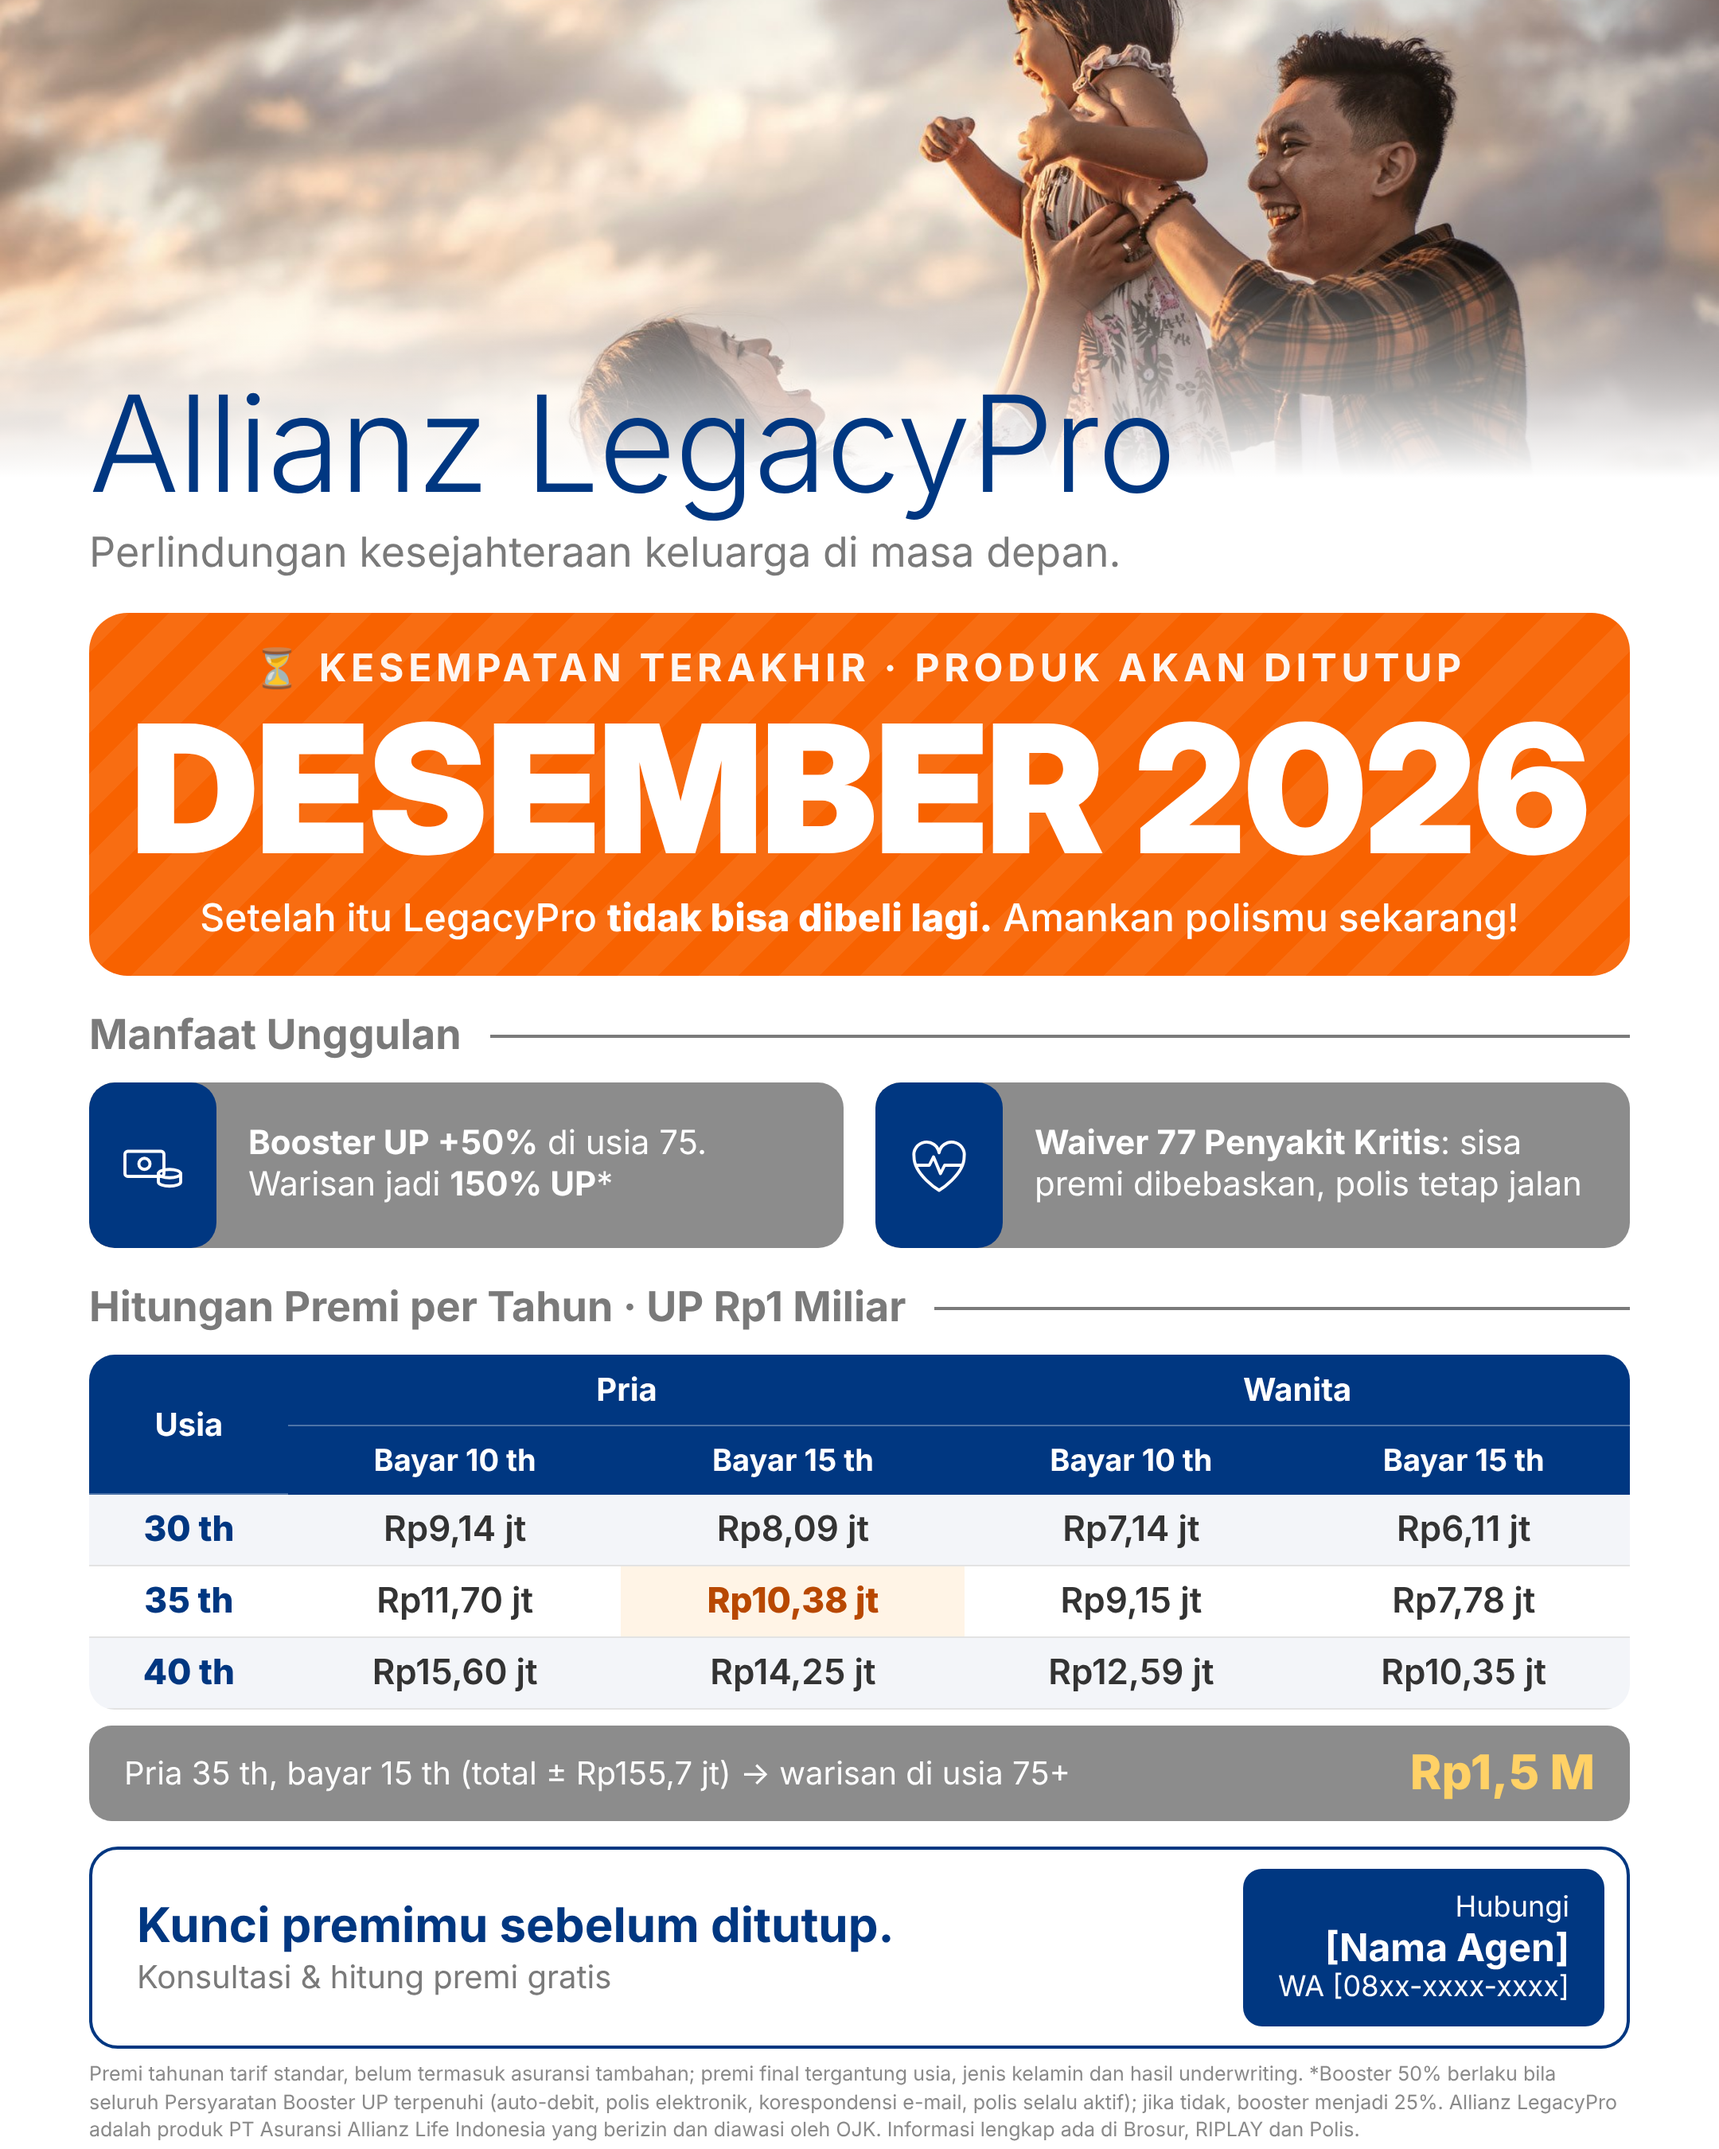
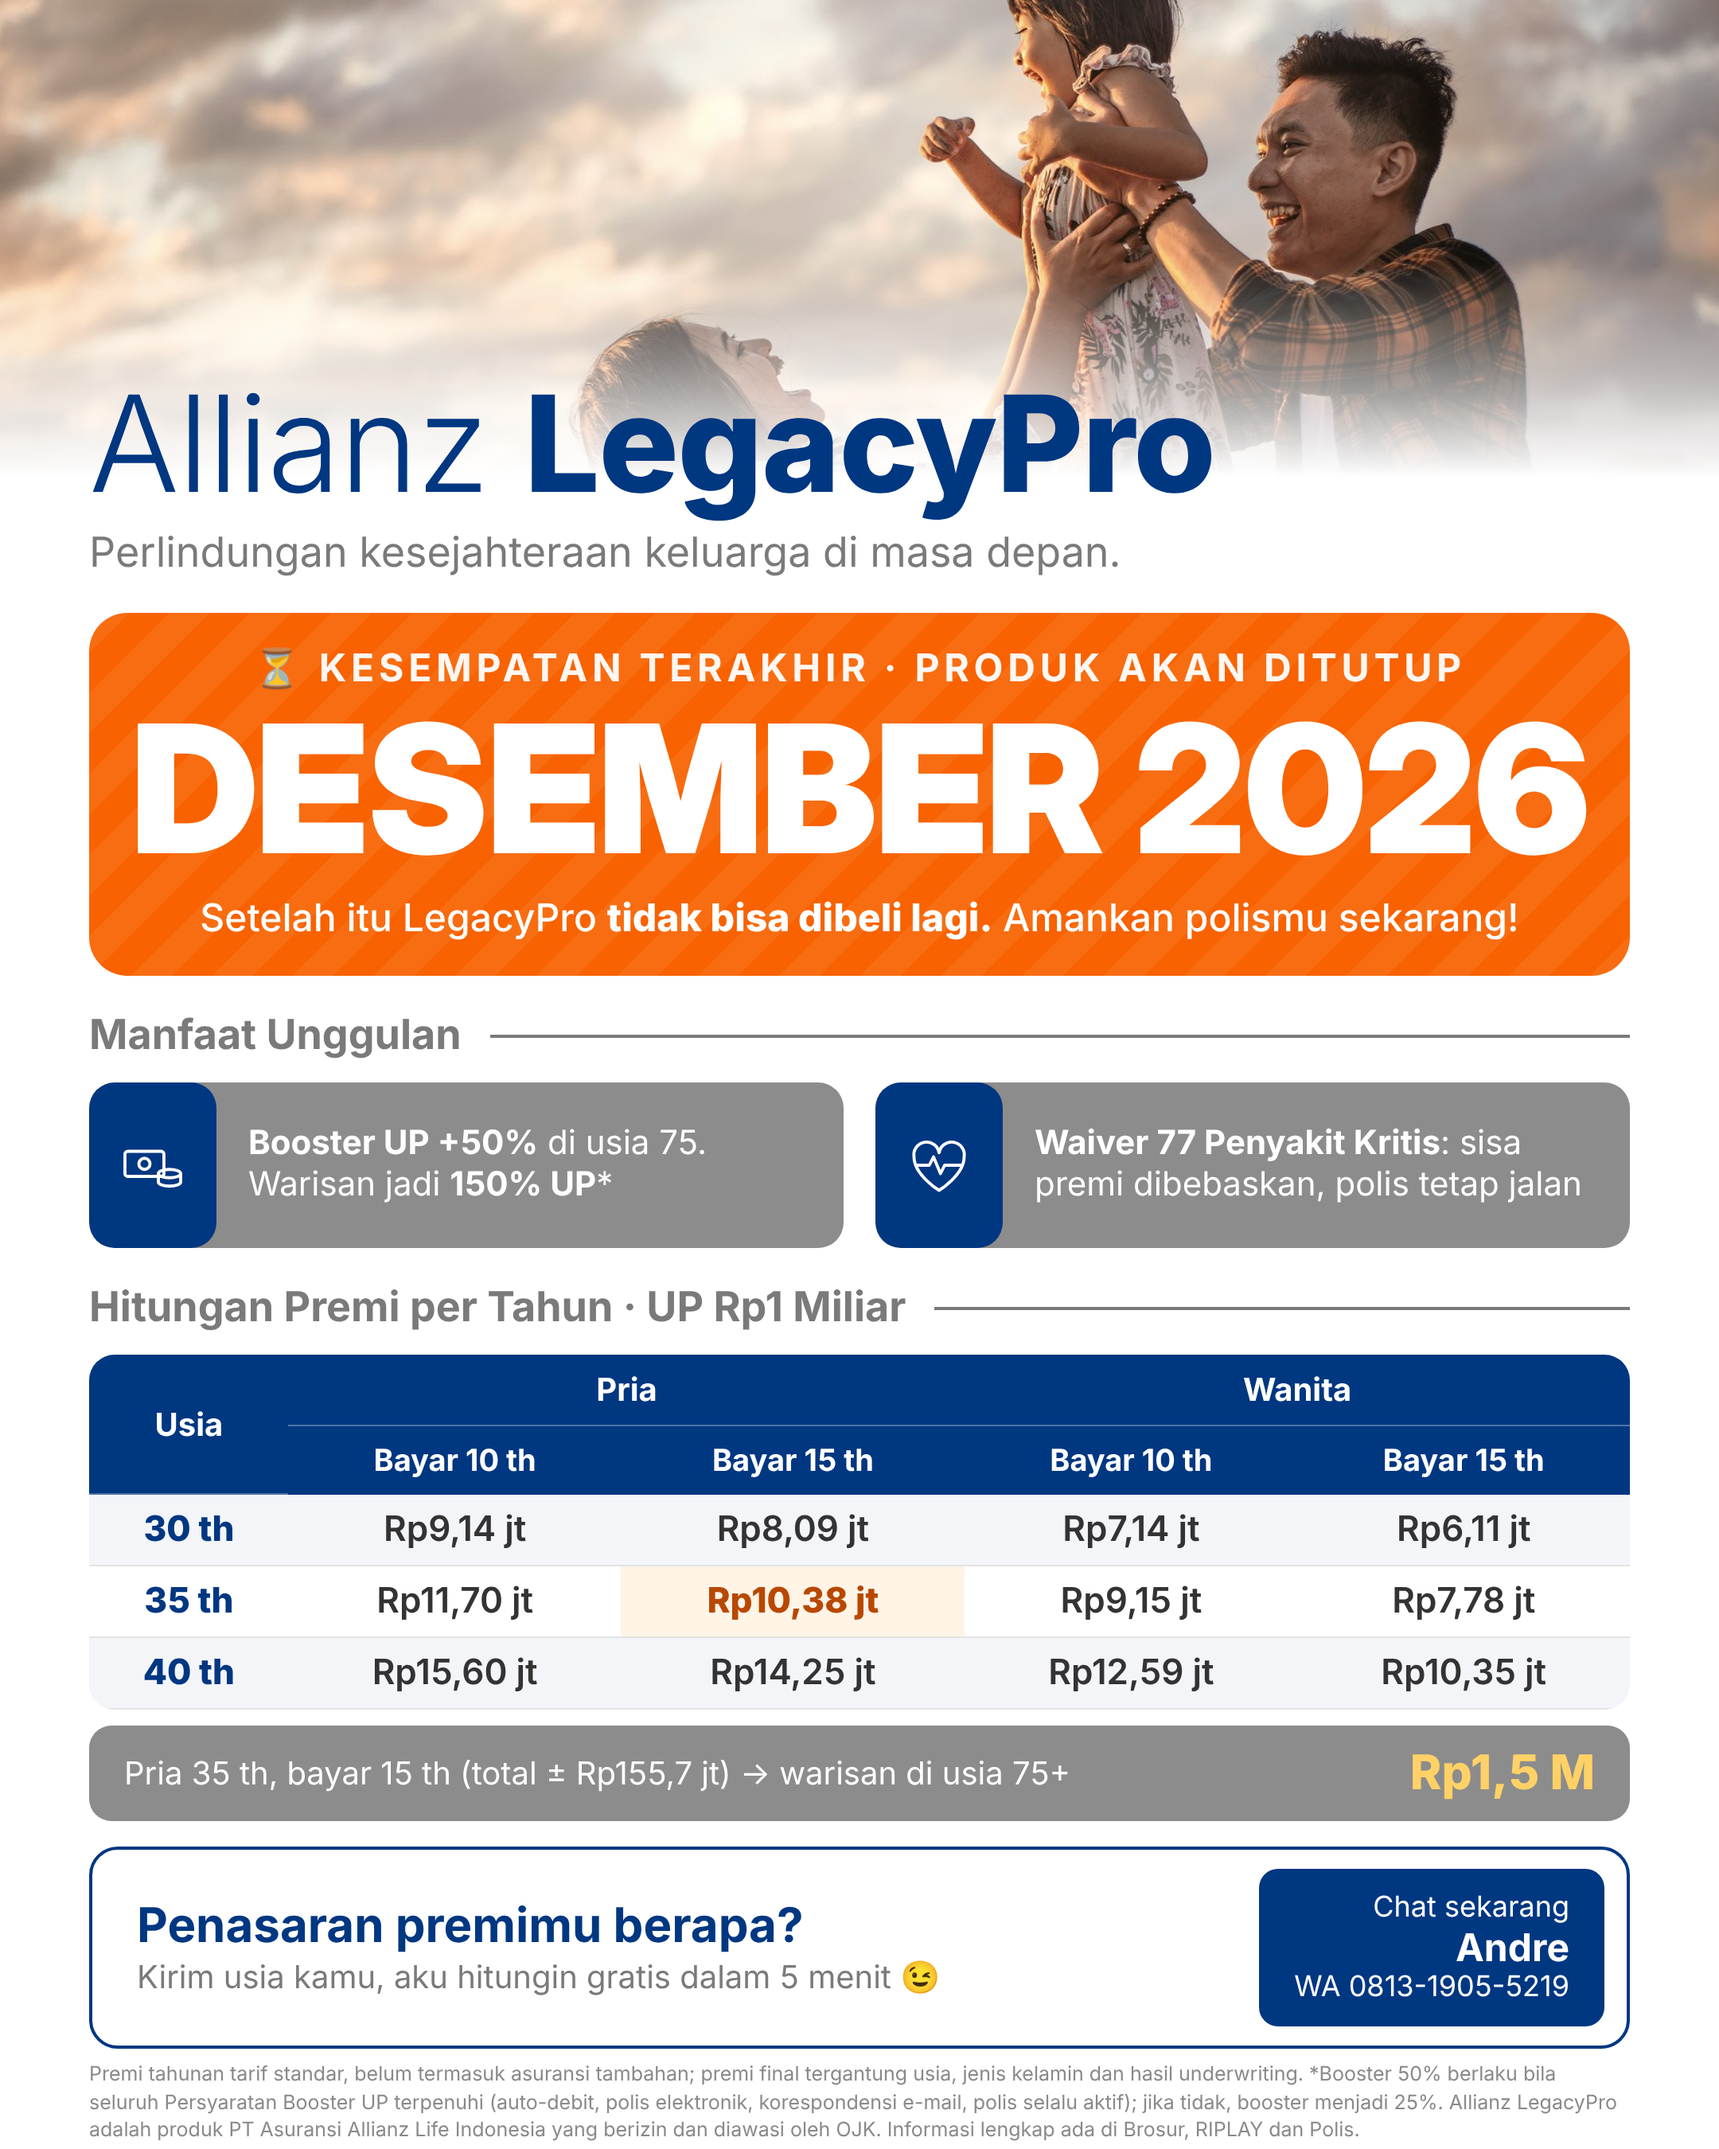
Flyer v3: bold LegacyPro title, new CTA, agent contact
Claude-Session: https://claude.ai/code/session_01K4n3RqQ8S6h1jh7d1qt4Ma

Changed region(s): [[0.0931, 0.8711, 0.5583, 0.9333], [0.3102, 0.1867, 0.7134, 0.2489], [0.7134, 0.8711, 0.9306, 0.9333]]

diff --git a/flyer-legacypro/flyer-v3.html b/flyer-legacypro/flyer-v3.html
@@ -64,12 +64,13 @@
   .hl{background:#fff4e6 !important;color:#b84800 !important;font-weight:800 !important}
   .note{margin:10px 56px 0;display:flex;align-items:center;justify-content:space-between;gap:16px;background:var(--grey2);color:#fff;border-radius:14px;padding:12px 22px;font-size:20px}
   .note b.n{color:#ffd166;font-size:30px;font-weight:800;white-space:nowrap}
+  h1 b{font-weight:800}
 </style>
 </head>
 <body>
   <div class="hero"><img src="cover.jpg" alt=""></div>
   <div class="head">
-    <h1>Allianz LegacyPro</h1>
+    <h1>Allianz <b>LegacyPro</b></h1>
     <div class="tag">Perlindungan kesejahteraan keluarga di masa depan.</div>
   </div>
 
@@ -96,8 +97,8 @@
   <div class="note"><span>Pria 35 th, bayar 15 th (total ± Rp155,7 jt) → warisan di usia 75+</span><b class="n">Rp1,5 M</b></div>
 
   <div class="cta">
-    <div class="t">Kunci premimu sebelum ditutup.<small>Konsultasi &amp; hitung premi gratis</small></div>
-    <div class="c">Hubungi<b>[Nama Agen]</b>WA [08xx-xxxx-xxxx]</div>
+    <div class="t">Penasaran premimu berapa?<small>Kirim usia kamu, aku hitungin gratis dalam 5 menit 😉</small></div>
+    <div class="c">Chat sekarang<b>Andre</b>WA 0813-1905-5219</div>
   </div>
 
   <p class="disc">Premi tahunan tarif standar, belum termasuk asuransi tambahan; premi final tergantung usia, jenis kelamin dan hasil underwriting. *Booster 50% berlaku bila seluruh Persyaratan Booster UP terpenuhi (auto-debit, polis elektronik, korespondensi e-mail, polis selalu aktif); jika tidak, booster menjadi 25%. Allianz LegacyPro adalah produk PT Asuransi Allianz Life Indonesia yang berizin dan diawasi oleh OJK. Informasi lengkap ada di Brosur, RIPLAY dan Polis.</p>
